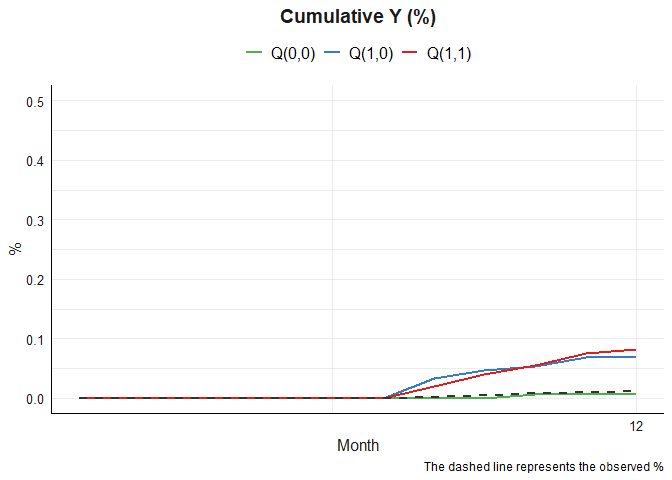
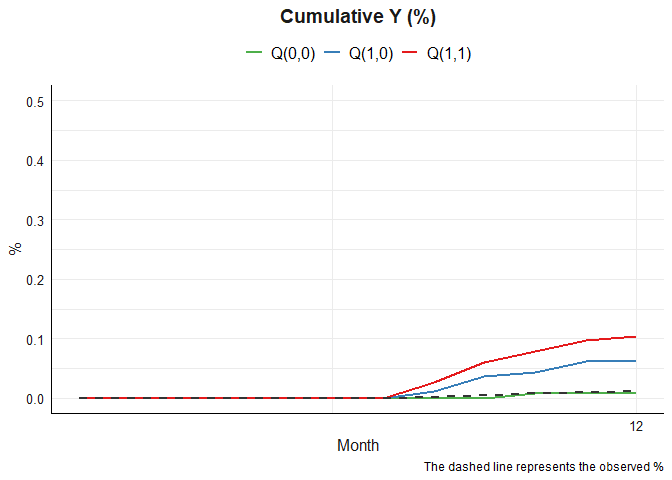
add code covr

Changed region(s): [[0.5625, 0.6875, 0.9375, 0.8438], [0.8438, 0.8125, 0.9375, 0.8438]]

diff --git a/docs/index.html b/docs/index.html
@@ -37,6 +37,7 @@
 <li class="nav-item"><form class="form-inline" role="search">
  <input class="form-control" type="search" name="search-input" id="search-input" autocomplete="off" aria-label="Search site" placeholder="Search for" data-search-index="search.json">
 </form></li>
+<li class="nav-item"><a class="external-link nav-link" href="https://github.com/causalepi/tvmedg/" aria-label="GitHub"><span class="fa fab fa-github fa-lg"></span></a></li>
       </ul>
 </div>
 
@@ -62,7 +63,7 @@
 <h2 id="tutorial">Tutorial<a class="anchor" aria-label="anchor" href="#tutorial"></a>
 </h2>
 <div class="sourceCode" id="cb2"><pre class="downlit sourceCode r">
-<code class="sourceCode R"><span><span class="kw"><a href="https://rdrr.io/r/base/library.html" class="external-link">library</a></span><span class="op">(</span><span class="va">tvmedg</span><span class="op">)</span></span></code></pre></div>
+<code class="sourceCode R"><span><span class="kw"><a href="https://rdrr.io/r/base/library.html" class="external-link">library</a></span><span class="op">(</span><span class="va"><a href="https://causalepi.github.io/tvmedg/">tvmedg</a></span><span class="op">)</span></span></code></pre></div>
 <div class="section level3">
 <h3 id="simulation-data">Simulation data<a class="anchor" aria-label="anchor" href="#simulation-data"></a>
 </h3>
@@ -85,7 +86,7 @@
 <span><span class="co">#&gt; Loading required package: iterators</span></span>
 <span><span class="co">#&gt; Loading required package: parallel</span></span>
 <span></span>
-<span><span class="va">cl</span> <span class="op">&lt;-</span> <span class="fu"><a href="https://rdrr.io/r/parallel/makeCluster.html" class="external-link">makeCluster</a></span><span class="op">(</span><span class="fl">8</span><span class="op">)</span></span>
+<span><span class="va">cl</span> <span class="op">&lt;-</span> <span class="fu"><a href="https://rdrr.io/r/parallel/makeCluster.html" class="external-link">makeCluster</a></span><span class="op">(</span><span class="fl">12</span><span class="op">)</span></span>
 <span><span class="fu"><a href="https://rdrr.io/pkg/doParallel/man/registerDoParallel.html" class="external-link">registerDoParallel</a></span><span class="op">(</span><span class="va">cl</span><span class="op">)</span></span>
 <span></span>
 <span><span class="va">op</span> <span class="op">&lt;-</span> <span class="fu"><a href="reference/tvmedg.html">tvmedg</a></span><span class="op">(</span>data <span class="op">=</span> <span class="va">sim_data</span>,</span>
@@ -103,16 +104,16 @@
 <span>             mreg <span class="op">=</span> <span class="st">"binomial"</span>,</span>
 <span>             lreg <span class="op">=</span> <span class="fu"><a href="https://rdrr.io/r/base/c.html" class="external-link">c</a></span><span class="op">(</span><span class="st">"binomial"</span>,<span class="st">"gaussian"</span>,<span class="st">"gaussian"</span><span class="op">)</span>,</span>
 <span>             yreg <span class="op">=</span> <span class="st">"binomial"</span>,dof <span class="op">=</span> <span class="fl">3</span>,</span>
-<span>             montecarlo <span class="op">=</span> <span class="fl">150</span>,length <span class="op">=</span> <span class="fl">12</span>,</span>
+<span>             montecarlo <span class="op">=</span> <span class="fl">500</span>,length <span class="op">=</span> <span class="fl">12</span>,</span>
 <span>             parallel<span class="op">=</span><span class="cn">TRUE</span>,nboot <span class="op">=</span> <span class="fl">5</span>,ci<span class="op">=</span><span class="fl">.95</span><span class="op">)</span></span>
-<span><span class="co">#&gt; Q(1,1): 0.08 (0.119,0.252) </span></span>
-<span><span class="co">#&gt; Q(1,0): 0.067 (0,0.248) </span></span>
-<span><span class="co">#&gt; Q(0,0): 0.007 (0,0) </span></span>
-<span><span class="co">#&gt; Indirect: 0.013 (0,0.233) </span></span>
-<span><span class="co">#&gt; Direct: 0.06 (0,0.248) </span></span>
-<span><span class="co">#&gt; Total: 0.073 (0.119,0.252) </span></span>
-<span><span class="co">#&gt; Proportional explain: 0.182 (0,1) </span></span>
-<span><span class="co">#&gt; Total time elapsed: 10.00735 mins</span></span></code></pre></div>
+<span><span class="co">#&gt; Q(1,1): 0.1 (0.102,0.921) </span></span>
+<span><span class="co">#&gt; Q(1,0): 0.062 (0.002,0.921) </span></span>
+<span><span class="co">#&gt; Q(0,0): 0.008 (0,0.04) </span></span>
+<span><span class="co">#&gt; Indirect: 0.038 (-0.014,0.175) </span></span>
+<span><span class="co">#&gt; Direct: 0.054 (0,0.917) </span></span>
+<span><span class="co">#&gt; Total: 0.092 (0.1,0.917) </span></span>
+<span><span class="co">#&gt; Proportional explain: 0.413 (-0.104,0.999) </span></span>
+<span><span class="co">#&gt; Total time elapsed: 53.67839 mins</span></span></code></pre></div>
 </div>
 <div class="section level3">
 <h3 id="plot">Plot<a class="anchor" aria-label="anchor" href="#plot"></a>
@@ -129,7 +130,15 @@
 </div>
 </div>
 </div>
-  </main><aside class="col-md-3"><div class="license">
+  </main><aside class="col-md-3"><div class="links">
+<h2 data-toc-skip>Links</h2>
+<ul class="list-unstyled">
+<li><a href="https://github.com/causalepi/tvmedg/" class="external-link">Browse source code</a></li>
+<li><a href="https://github.com/causalepi/tvmedg/issues" class="external-link">Report a bug</a></li>
+</ul>
+</div>
+
+<div class="license">
 <h2 data-toc-skip>License</h2>
 <ul class="list-unstyled">
 <li><a href="LICENSE.html">Full license</a></li>
@@ -158,6 +167,7 @@
 <h2 data-toc-skip>Dev status</h2>
 <ul class="list-unstyled">
 <li><a href="https://github.com/causalepi/tvmedg/actions/workflows/R-CMD-check.yaml" class="external-link"><img src="https://github.com/causalepi/tvmedg/actions/workflows/R-CMD-check.yaml/badge.svg" alt="R-CMD-check"></a></li>
+<li><a href="https://app.codecov.io/gh/causalepi/tvmedg" class="external-link"><img src="https://codecov.io/gh/causalepi/tvmedg/graph/badge.svg" alt="Codecov test coverage"></a></li>
 </ul>
 </div>
 

diff --git a/docs/authors.html b/docs/authors.html
@@ -18,6 +18,7 @@
       <ul class="navbar-nav me-auto"><li class="nav-item"><a class="nav-link" href="reference/index.html">Reference</a></li>
       </ul><ul class="navbar-nav"><li class="nav-item"><form class="form-inline" role="search">
  <input class="form-control" type="search" name="search-input" id="search-input" autocomplete="off" aria-label="Search site" placeholder="Search for" data-search-index="search.json"></form></li>
+<li class="nav-item"><a class="external-link nav-link" href="https://github.com/causalepi/tvmedg/" aria-label="GitHub"><span class="fa fab fa-github fa-lg"></span></a></li>
       </ul></div>
 
 
@@ -48,17 +49,18 @@
 
     <div class="section level2">
       <h2 id="citation">Citation</h2>
-      <p></p>
+      <p><small class="dont-index">Source: <a href="https://github.com/causalepi/tvmedg/blob/HEAD/DESCRIPTION" class="external-link"><code>DESCRIPTION</code></a></small></p>
 
       <p>Pham Nguyen The N, Ong T, Khuong L (2025).
 <em>tvmedg: Time-varying mediation analysis using g-computation</em>.
-R package version 0.1.0.
+R package version 0.1.0, <a href="https://causalepi.github.io/tvmedg/">https://causalepi.github.io/tvmedg/</a>.
 </p>
       <pre>@Manual{,
   title = {tvmedg: Time-varying mediation analysis using g-computation},
   author = {Nguyen {Pham Nguyen The} and Thinh Ong and Long Khuong},
   year = {2025},
   note = {R package version 0.1.0},
+  url = {https://causalepi.github.io/tvmedg/},
 }</pre>
     </div>
 

diff --git a/docs/LICENSE.html b/docs/LICENSE.html
@@ -18,6 +18,7 @@
       <ul class="navbar-nav me-auto"><li class="nav-item"><a class="nav-link" href="reference/index.html">Reference</a></li>
       </ul><ul class="navbar-nav"><li class="nav-item"><form class="form-inline" role="search">
  <input class="form-control" type="search" name="search-input" id="search-input" autocomplete="off" aria-label="Search site" placeholder="Search for" data-search-index="search.json"></form></li>
+<li class="nav-item"><a class="external-link nav-link" href="https://github.com/causalepi/tvmedg/" aria-label="GitHub"><span class="fa fab fa-github fa-lg"></span></a></li>
       </ul></div>
 
 
@@ -27,7 +28,7 @@
   <main id="main" class="col-md-9"><div class="page-header">
 
       <h1>MIT License</h1>
-
+      <small class="dont-index">Source: <a href="https://github.com/causalepi/tvmedg/blob/HEAD/LICENSE.md" class="external-link"><code>LICENSE.md</code></a></small>
     </div>
 
 <div id="mit-license" class="section level1">

diff --git a/docs/reference/index.html b/docs/reference/index.html
@@ -18,6 +18,7 @@
       <ul class="navbar-nav me-auto"><li class="active nav-item"><a class="nav-link" href="../reference/index.html">Reference</a></li>
       </ul><ul class="navbar-nav"><li class="nav-item"><form class="form-inline" role="search">
  <input class="form-control" type="search" name="search-input" id="search-input" autocomplete="off" aria-label="Search site" placeholder="Search for" data-search-index="../search.json"></form></li>
+<li class="nav-item"><a class="external-link nav-link" href="https://github.com/causalepi/tvmedg/" aria-label="GitHub"><span class="fa fab fa-github fa-lg"></span></a></li>
       </ul></div>
 
 

diff --git a/docs/LICENSE-text.html b/docs/LICENSE-text.html
@@ -18,6 +18,7 @@
       <ul class="navbar-nav me-auto"><li class="nav-item"><a class="nav-link" href="reference/index.html">Reference</a></li>
       </ul><ul class="navbar-nav"><li class="nav-item"><form class="form-inline" role="search">
  <input class="form-control" type="search" name="search-input" id="search-input" autocomplete="off" aria-label="Search site" placeholder="Search for" data-search-index="search.json"></form></li>
+<li class="nav-item"><a class="external-link nav-link" href="https://github.com/causalepi/tvmedg/" aria-label="GitHub"><span class="fa fab fa-github fa-lg"></span></a></li>
       </ul></div>
 
 

diff --git a/docs/404.html b/docs/404.html
@@ -35,6 +35,7 @@
 <li class="nav-item"><form class="form-inline" role="search">
  <input class="form-control" type="search" name="search-input" id="search-input" autocomplete="off" aria-label="Search site" placeholder="Search for" data-search-index="search.json">
 </form></li>
+<li class="nav-item"><a class="external-link nav-link" href="https://github.com/causalepi/tvmedg/" aria-label="GitHub"><span class="fa fab fa-github fa-lg"></span></a></li>
       </ul>
 </div>
 

diff --git a/README.md b/README.md
@@ -6,6 +6,8 @@
 <!-- badges: start -->
 
 [![R-CMD-check](https://github.com/causalepi/tvmedg/actions/workflows/R-CMD-check.yaml/badge.svg)](https://github.com/causalepi/tvmedg/actions/workflows/R-CMD-check.yaml)
+[![Codecov test
+coverage](https://codecov.io/gh/causalepi/tvmedg/graph/badge.svg)](https://app.codecov.io/gh/causalepi/tvmedg)
 <!-- badges: end -->
 
 The goal of tvmedg is to time-varying mediation analysis using
@@ -47,7 +49,7 @@ library(doParallel)
 #> Loading required package: iterators
 #> Loading required package: parallel
 
-cl <- makeCluster(8)
+cl <- makeCluster(12)
 registerDoParallel(cl)
 
 op <- tvmedg(data = sim_data,
@@ -65,16 +67,16 @@ op <- tvmedg(data = sim_data,
              mreg = "binomial",
              lreg = c("binomial","gaussian","gaussian"),
              yreg = "binomial",dof = 3,
-             montecarlo = 150,length = 12,
+             montecarlo = 500,length = 12,
              parallel=TRUE,nboot = 5,ci=.95)
-#> Q(1,1): 0.08 (0.119,0.252) 
-#> Q(1,0): 0.067 (0,0.248) 
-#> Q(0,0): 0.007 (0,0) 
-#> Indirect: 0.013 (0,0.233) 
-#> Direct: 0.06 (0,0.248) 
-#> Total: 0.073 (0.119,0.252) 
-#> Proportional explain: 0.182 (0,1) 
-#> Total time elapsed: 10.00735 mins
+#> Q(1,1): 0.1 (0.102,0.921) 
+#> Q(1,0): 0.062 (0.002,0.921) 
+#> Q(0,0): 0.008 (0,0.04) 
+#> Indirect: 0.038 (-0.014,0.175) 
+#> Direct: 0.054 (0,0.917) 
+#> Total: 0.092 (0.1,0.917) 
+#> Proportional explain: 0.413 (-0.104,0.999) 
+#> Total time elapsed: 53.67839 mins
 ```
 
 ### Plot
